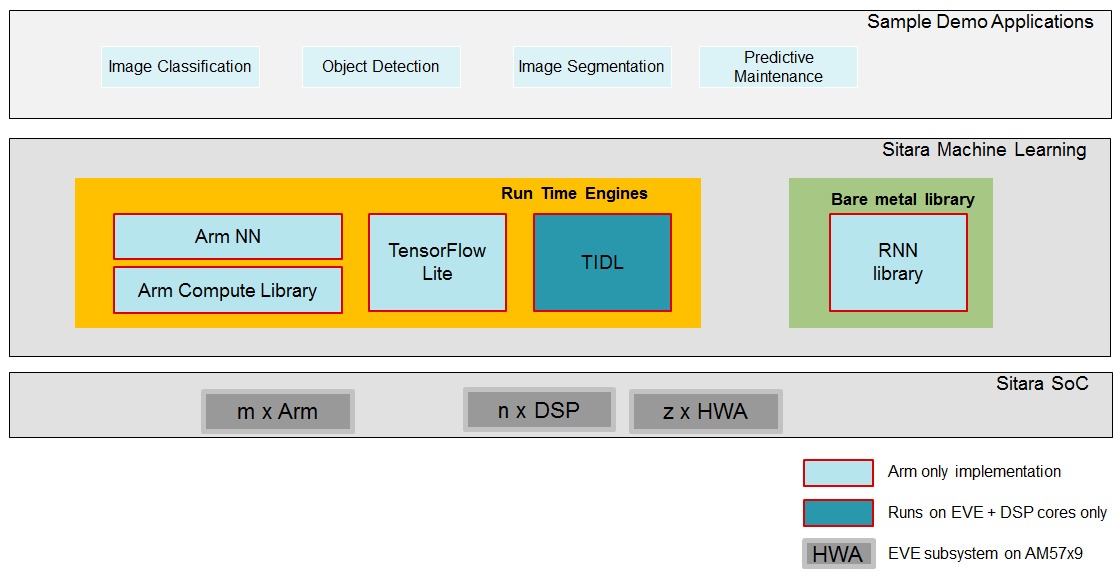
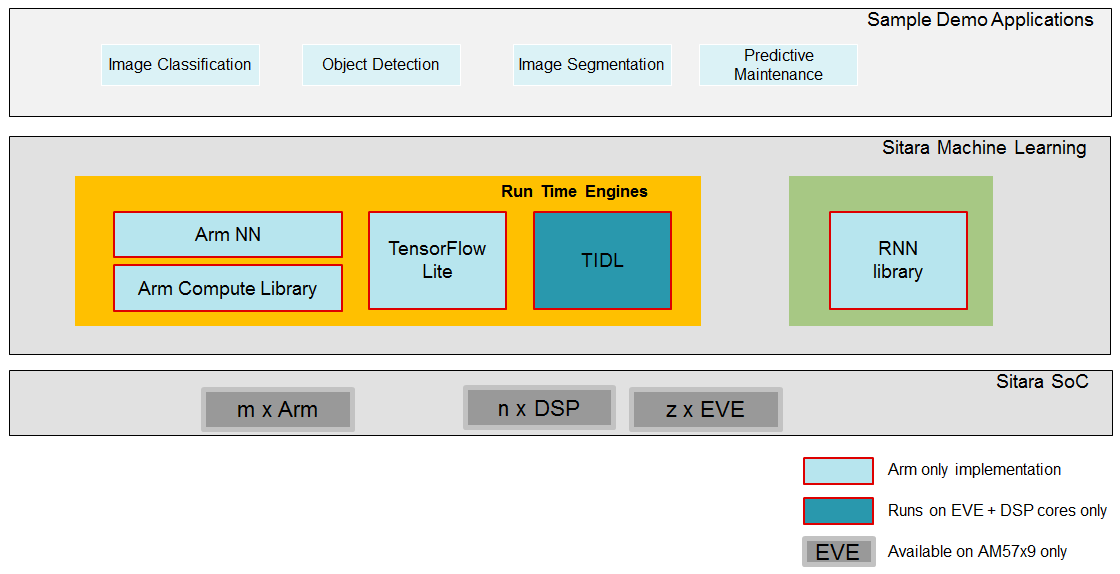
linux: maching learning: address review comments
* Removed "bare metal library" for RNN in text and diagram
* Replaced HWA with EVE in the diagram

diff --git a/source/linux/Foundational_Components_Machine_Learning.rst b/source/linux/Foundational_Components_Machine_Learning.rst
@@ -1,7 +1,7 @@
 ********************
 Machine Learning
 ********************
-Sitara Machine Learning toolkit brings machine learning to the edge by enabling machine learning inference on all Sitara devices (Arm only, Arm + specialized hardware accelerators). It is provided as part of TI's Processor SDK Linux, free to download and use. Sitara machine learning today consists of TI Deep Learning (TIDL), Arm NN, TensorFlow Lite, and RNN bare metal library.
+Sitara Machine Learning toolkit brings machine learning to the edge by enabling machine learning inference on all Sitara devices (Arm only, Arm + specialized hardware accelerators). It is provided as part of TI's Processor SDK Linux, free to download and use. Sitara machine learning today consists of TI Deep Learning (TIDL), Arm NN, TensorFlow Lite, and RNN library.
 
 .. figure:: ../images/Sitara_machine_learning_stack_diagram.png
     :width: 1120px
@@ -28,7 +28,7 @@ Sitara Machine Learning toolkit brings machine learning to the edge by enabling 
 * Runs on all Cortex-A ARM cores (AM3x, AM4x, AM5x, AM6x Sitara devices).
 * Integrated into TI's Processor SDK Linux.
 
-.. rubric:: `RNN Bare Metal Library <Examples_and_Demos_Application_Demos.html#deploy-and-integration>`__
+.. rubric:: `RNN Library <Examples_and_Demos_Application_Demos.html#deploy-and-integration>`__
 
 * The LSTM (Long Short-Term Memory) and fully connected layers have been provided in a standalone library to allow for rapid prototyping of inference applications that require recurrent neural networks.
 * Runs on all Cortex-A ARM cores (AM3x, AM4x, AM5x, AM6x Sitara devices).
